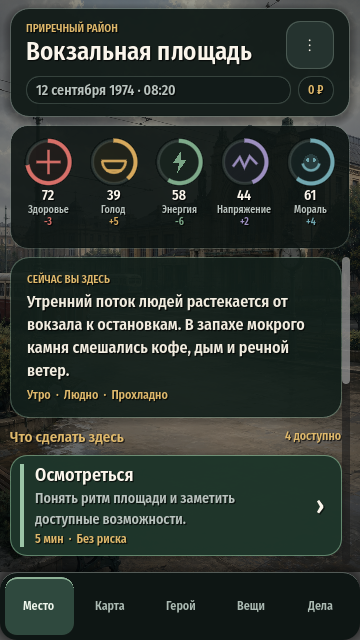
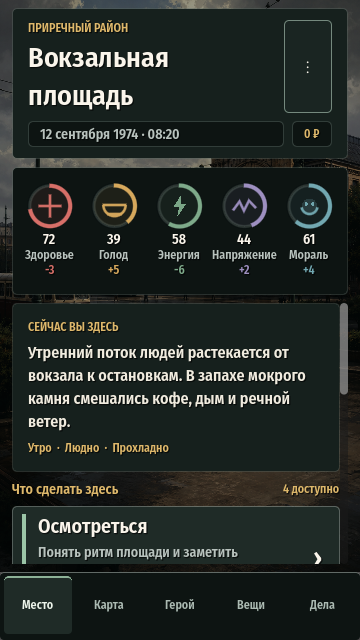
docs(ui): record the UI direction and refresh reference renders
UI_BACKLOG.md is written to be picked up cold: every item carries an address in
the code, the reason it matters and what would make it done. Finished items move
to a dated "done" section rather than disappearing, so the reasoning behind a
decision survives the decision.

The accepted direction is a strict system rather than a metaphor. An object
metaphor — folder, paper, sheet metal — puts a layer between the player and the
information, scales badly onto new screens and ages faster than the content.
Restraint carries the theme better: a cold, precise, unsentimental interface
suits a game about surviving on the street.

Two rules earned their own sections because they were learned rather than
assumed:

- the interface does not explain the game. An unearned control is absent, not
  greyed out with a counter; a disabled state is only honest for something
  already unlocked and momentarily unavailable. The cost of an available
  decision is still always shown — that is a condition of choosing, not a hint
  about hidden machinery.
- one content plane, not a scatter of cards and not bare text. Rules and spacing
  separate as well as boxes with a third of the noise, but only over an opaque
  surface of their own. The probe that proved this made a screen worse first.

Reference renders across m3a–m3d are regenerated. The m3a set had been frozen
since 23 July because three smokes wrote to res://.godot instead of the
[…]

diff --git a/docs/UI_BACKLOG.md b/docs/UI_BACKLOG.md
@@ -1,0 +1,202 @@
+# UI-бэклог «Бомжары»
+
+Статус: рабочий документ. Обновлено 26 июля 2026 года.
+
+Здесь собрано всё известное на сегодня о состоянии интерфейса: что уже сделано, какие принципы приняты и что предстоит. Документ пишется так, чтобы задачу можно было взять «с холодного старта», без контекста обсуждения: у каждого пункта есть адрес в коде, причина и критерий готовности.
+
+Обязательный уровень качества задаёт [UI/UX-стандарт](UI_UX_STANDARD.md); этот документ не заменяет его, а перечисляет разрыв между стандартом и текущей реализацией.
+
+## 1. Как пользоваться
+
+- Пункты в разделе 4 упорядочены по приоритету. P0 — замечания игрока и то, что ломает впечатление прямо сейчас; P1 — каркас, без которого дальнейшие экраны будут накапливать хаос; P2 — полировка.
+- Каждый пункт закрывается только вместе с эталонным рендером и проверкой на `360×640`, `540×960` и при масштабе текста 200%.
+- Готовый пункт переносится в раздел 2 с датой, а не удаляется.
+
+## 2. Сделано
+
+**Иерархия кнопок (25 июля 2026).** До этого `Primary`, `Secondary` и `Quiet` были тремя оттенками одного зелёного с одинаковой геометрией, а `PrimaryButton` и `ActionButtonAccent` ссылались на один и тот же stylebox — главная кнопка подтверждения выглядела как строка списка. Введены три разных веса: заливка с тенью, контур, только текст. Нажатие перераспределяет `content_margin` (14/14 → 16/12) и схлопывает тень, поэтому содержимое проседает, а размер кнопки не меняется и layout не дёргается. Золото `#dfb86c` переведено с focus/hover, которых на телефоне не бывает, на pressed — единственное состояние, которое реально видит палец.
+
+Побочно исправлена ошибка разметки: «Быстрый поиск» занимал primary-слот, хотя заблокирован почти всю сессию, из-за чего выключенная кнопка выглядела весомее живой соседней.
+
+**Быстрый поиск скрыт до освоения (25 июля 2026).** Кнопка показывала «Быстрый поиск 0/6» и объясняла условие открытия — раскрытие механики и счётчиком, и самим присутствием. По правилу 3.4 кнопка удалена из виду целиком: до освоения зоны «Закончить поиск» стоит по центру строки, после освоения появляется вторая кнопка и строка делится пополам.
+
+**Шкалы и тема на них (25 июля 2026).** Введён [tokens.gd](../ui/theme/tokens.gd) с закрытыми шкалами; тема и 21 сцена переведены на них. Радиусы: 10 значений от 5 до 22 → одно, 4, во всех 140 вхождениях. Кегли: 10 значений → 6 ступеней, причём `StatusNameLabel` и `StatusDeltaLabel` стояли на 10 sp при 12 sp минимума по стандарту — шкала починила нарушение доступности. Промежутки: 12 значений → 3. Девять мягких теней убраны, глубина держится тремя непрозрачными ступенями поверхности и волосяной рамкой.
+
+Соответствие закреплено тестом [ui_scale_conformance_test.gd](../tests/ui/ui_scale_conformance_test.gd): обходит 85 файлов и падает на любом значении вне шкалы. Вне шкалы остался только `ui/main.gd` — легаси, удаляется в M3F, исключён явно.
+
+Попутно тесты нашли регрессию: карта города стала уже допустимого из-за двойной набивки — панель давала 16 px, а внутри стоял ещё `MapMargin` на 4 px. Внутренняя убрана.
+
+**Экран создания героя (25 июля 2026).** Закрывает P0.2 и служил пробой направления. Было: три вложенные карточки, описание характеристики на 6–7 строк внутри каждой, длинная прокрутка, полторы характеристики в поле зрения. Стало: одна непрозрачная плоскость содержания, характеристика — строка «название — значение — минус/плюс», описание за касанием названия в [info_sheet](../ui/components/info_sheet.tscn), кнопка подтверждения закреплена внизу вне прокрутки. Все четыре характеристики и счётчик очков помещаются на `360×640` при 100% без прокрутки; при 200% экран прокручивается и не переполняется по ширине.
+
+Рост названия характеристики ограничен множителем 1.3, иначе на 200% строка не вмещает значение и обе кнопки — тот же приём, что уже применён к плотным элементам.
+
+**Шейдер психики съедал всю векторную графику (25 июля 2026).** Корневая причина P0.3, и не только его. `psyche_background.gdshader` писал `COLOR = vec4(colour, source.a)`, то есть **выбрасывал цвет вершины** и читал только текстуру. У `draw_circle`, `draw_line`, `draw_string` текстура — белая заглушка, а цвет передаётся именно вершиной. В результате всё, что рисуется примитивами на поисковой карте, выходило одной плоской заливкой `(208,209,211)`: метки объектов превращались в безликие диски, подписи — в белые плашки с невидимым текстом, герой — в белое пятно.
+
+В комментарии самого шейдера написано, что он предназначен только для `TextureRect` локации, но в `search_world.tscn` его повесили на весь рисующий `Control`. Исправление — сохранять входящий цвет вершины и умножать на него; для фона, у которого вершинный цвет белый, результат математически не изменился.
+
+Диагноз получен экспериментом: временная заливка метки маджентой не дала на рендере ни одного маджентового пикселя, что и указало на шейдер, а не на код рисования. До этого я дважды ошибался, доверяя глазам: пиксельные замеры опровергли и «фотография просвечивает сквозь панель инвентаря», и «метки не изменились».
+
+**Оставшиеся P0 закрыты (25 июля 2026).** P0.1 — карта поиска получила рамку отдельным слоем поверх арта, потому что `PanelContainer` рисует свой stylebox под детьми, а `clip_contents` режет по прямоугольнику. P0.4 — содержимое инвентаря убрано на одну непрозрачную плоскость; замер яркости в области панели упал со 178/217 до 122/120, то есть фотография действительно закрыта. P0.6 — три smoke писали эталонные снимки в `.godot/m3_ui_previews` мимо репозитория и теперь пишут в `docs/qa/m3a`.
+
+## 3. Принятое направление
+
+Решение от 25 июля 2026 года: **строгая система, а не метафора.**
+
+Интерфейс не изображает предмет — ни папку, ни бумагу, ни жесть. Предметная метафора вставляет лишний слой между игроком и информацией, плохо масштабируется на новые экраны и стареет быстрее содержания. Тематичность достигается сдержанностью: холодный, точный, несентиментальный интерфейс уместен игре про выживание сильнее любой декорации.
+
+Опора — практика современного цифрового интерфейса, а не оформление предметов.
+
+### 3.1. Закрытые шкалы
+
+Значение, которого нет в шкале, использовать нельзя. Это главное правило раздела. До введения шкал в проекте жили 11 радиусов и 11 длительностей, подобранных по месту, и именно из-за этого интерфейс выглядел несобранным. Радиусы, кегли и отступы уже приведены к шкале и закреплены тестом; длительности ждут системы движения.
+
+| Шкала | Значения |
+|---|---|
+| Отступы | 4, 8, 12, 16, 24, 32, 48 |
+| Радиус | **4** — единственный, без исключений |
+| Типографика | 12, 14, 16, 20, 28, 40 |
+| Поверхности | фон → поверхность → приподнятое, три ступени светлоты |
+| Длительности | задаются вместе с системой движения (P1.1) |
+
+Радиус 4 выбран сознательно. Ноль на мобильном с однопиксельной рамкой часто выглядит недовёрстанным, особенно в плотных списках. Крупный радиус 16–22, который стоит у нас на больших поверхностях, — интонация дружелюбного консьюмерского приложения и теме противоречит. Малый радиус читается как точность.
+
+### 3.2. Правила формы
+
+**Высота — слоями, не тенями.** В тёмном интерфейсе тень грязнит и не читается. Поверхности разделяются светлотой и волосяной рамкой 1 px на низкой прозрачности.
+
+**Одна плоскость содержания, а не россыпь карточек и не голый текст.** Не каждый смысловой блок обязан быть карточкой: линейка, отступ и вес шрифта разделяют не хуже, а шума дают втрое меньше. Но разделители работают только на собственной непрозрачной подложке. Экран отдаёт содержанию одну сплошную поверхность, внутри неё пользуется линейками, а фотография остаётся рамкой вокруг — не фоном под строками.
+
+Это уточнение получено пробой на экране создания героя: убранные карточки без общей подложки оставили текст лежать прямо на фотографии, и читаемость стала хуже исходной.
+
+**Ограниченный акцент.** Графит — база, золото — только действие, красный — только опасность. Остальное нейтрально. Пока один зелёный работает фоном, поверхностью и акцентом одновременно, поэтому не выделяется ничто: перевод главного действия на золото — отдельное решение, сознательно не смешанное со структурной перестройкой.
+
+**Никакой полупрозрачности под текстом.** Содержательные поверхности плотные. Фотография видна между блоками, а не под строками.
+
+**Контент вперёд, оболочка назад.** Хром не соревнуется с содержанием за внимание.
+
+### 3.3. Правила движения
+
+Длительности и кривые берутся из общего набора. Вход — замедление, выход — ускорение. Переход всегда прерываем и перенацеливаем, никогда не копится в очередь и не задерживает ввод.
+
+**Без пружин.** Overshoot и упругие кривые запрещены: интонация игры их не выдерживает.
+
+Направление перехода кодирует иерархию — вперёд, назад и переключение соседних разделов должны отличаться, иначе игрок теряет ощущение места.
+
+Уменьшение движения — это режим, а не выключатель: переход заменяется мгновенной сменой или кросс-фейдом, но обратная связь остаётся.
+
+Движение никогда не является единственным носителем смысла и дублируется формой, цветом или текстом.
+
+Две поправки, специфичные для игры и записанные в проектных правилах: **движение не намекает на ход игрового времени** и **анимация не подтверждает доменную команду** — визуальный отклик отдаётся сразу, фиксация идёт отдельно и идемпотентно.
+
+### 3.4. Интерфейс не объясняет геймплей
+
+Игрок изучает игру, играя в неё. Интерфейс показывает состояние, а не раскрывает механику.
+
+- Незаработанный элемент **отсутствует на экране**. Не выключенный, не серый, не с подписью «откроется через» — его просто нет. Выключенное состояние тоже сообщает о существовании механики.
+- Появление элемента перестраивает компоновку: пока он один, элемент стоит по центру; когда появляется второй, строка делится между ними.
+- Выключенное состояние остаётся законным только для **уже открытого** элемента, временно недоступного по текущей обстановке.
+- Закрытые варианты ответа по умолчанию скрыты; показать их вместе с причиной можно только настройкой подсказок.
+- Исключение одно — явное обучение.
+
+Практический пример: кнопка быстрого поиска показывала «Быстрый поиск 0/6» и объясняла условие открытия. Механика раскрыта дважды — счётчиком и самим присутствием кнопки. Теперь до освоения зоны кнопки нет, «Закончить поиск» стоит по центру; после освоения кнопка появляется и строка выравнивается по горизонтали.
+
+Отдельно от этого правила стоит **цена уже доступного решения**: длительность, расход сил и риск показываются до подтверждения, потому что это условие осознанного выбора, а не подсказка о скрытом устройстве игры.
+
+### 3.5. Прогрессивное раскрытие
+
+Первый экран показывает решение, а не справку. Подробности убираются за касание.
+
+Это обоснование для выноса описаний характеристик (P0.2): не потому, что «так похоже на документ», а потому, что справочный текст не должен занимать место решения.
+
+## 4. Бэклог
+
+### P0.5 — Сквозная проверка на раскрытие механики
+
+Адрес: [search_read_model.gd](../app/search/search_read_model.gd), [search_approach_row.gd](../ui/components/search_approach_row.gd), [action_row.gd](../ui/components/action_row.gd), [ui_model_factory.gd](../app/ui_model_factory.gd).
+
+Правило 3.4 применено только к кнопке быстрого поиска. Остальной интерфейс не проверен, а места, где он объясняет своё устройство, точно есть: способы взаимодействия перечисляют требования вроде «нужны целые рабочие перчатки», строки действий и предметов показывают `locked_reason`.
+
+Здесь нужна аккуратность, потому что два случая выглядят похоже, но различаются по смыслу:
+
+- **цена доступного решения** — время, силы, риск — показывается всегда, это условие осознанного выбора;
+- **условие открытия недоступного** — раскрытие механики и подлежит удалению.
+
+Отдельный вопрос, требующий решения: считается ли требование уже видимого способа («нужны перчатки») ценой или раскрытием. Сейчас такие причины показываются всегда, хотя проектное правило говорит, что закрытые варианты по умолчанию скрыты и открываются настройкой подсказок.
+
+Готово, когда: каждое место, где интерфейс называет условие, классифицировано как цена или как раскрытие; раскрытия убраны либо переведены под настройку подсказок.
+
+### P1.1 — Системы движения не существует
+
+Адрес: везде. Диагноз по коду: **ноль** токенов движения; **16 файлов** сами создают твины с **11 разными длительностями** (0.09, 0.1, 0.11, 0.16, 0.17, 0.18, 0.2, 0.22, 0.24, 0.34, 0.36); **21 файл** независимо решает, что значит «уменьшить движение».
+
+При этом [стандарт §4](UI_UX_STANDARD.md) уже задаёт интервалы: отклик на нажатие 80–120 мс, обычный переход 180–260 мс, смена экрана не более 320 мс, изменение показателя 240–450 мс. А пункт 8 плана M3A прямо требует «единый Theme с токенами цвета, типографики, размеров, отступов, радиусов и motion». Токенов движения в теме нет.
+
+Предлагается `ui/theme/motion.gd`: именованные длительности и кривые, фабрика твинов, применяющая политику уменьшенного движения в одном месте, хелпер стаггера и готовые переходы (кросс-фейд, сдвиг по общей оси, масштабирование).
+
+Готово, когда: ни один экран и компонент не содержит числовой длительности; режим уменьшенного движения переключается в одном месте; тест проверяет, что все токены укладываются в интервалы стандарта.
+
+### P1.2 — Все переходы между экранами одинаковы
+
+Адрес: [app_shell.gd](../app/app_shell.gd), `show_screen`.
+
+Каждый экран появляется одинаково: прозрачность плюс сдвиг на 10px по X за 0.2 с. Переход вперёд, возврат назад, переключение вкладки и открытие занятия визуально неразличимы, поэтому интерфейс не сообщает, где игрок оказался.
+
+Готово, когда: `UiCoordinator` передаёт намерение перехода (вперёд, назад, замена), а оболочка выбирает соответствующее движение; возврат читается как возврат.
+
+### P1.3 — Модальные листы дублируют друг друга
+
+Адрес: [search_interaction_sheet.gd](../ui/components/search_interaction_sheet.gd), [search_capacity_conflict_sheet.gd](../ui/components/search_capacity_conflict_sheet.gd), [inventory_action_sheet.gd](../ui/components/inventory_action_sheet.gd).
+
+У первых двух метод `_animate_open` совпадает дословно. Открытие, закрытие, backdrop, обработка Back и `is_open()` написаны в каждом листе заново.
+
+Готово, когда: поведение листа живёт в одном месте, а конкретный лист описывает только своё содержимое.
+
+### P1.4 — Состояния элементов не системны
+
+Адрес: тема плюс отдельные компоненты.
+
+`idle`, `hover`, `pressed`, `focused`, `disabled` и `loading` реализуются точечно и не для всех элементов. Отдельная проблема — отсутствие состояния ожидания: во время команды экран не сообщает, что занят, хотя команда блокируется на четверть секунды.
+
+Готово, когда: состояния задаются темой, а не индивидуальными override; у каждого нажимаемого элемента есть отчётливое состояние нажатия.
+
+### P1.5 — Тактильного отклика и звука нет
+
+Адрес: отсутствует.
+
+Стандарт требует «ненавязчивые звук и виброотклик, которые можно отключить». В коде нет ни одного обращения к вибрации или аудио.
+
+Готово, когда: подтверждение значимого решения, отказ, пересечение порога риска и завершение мини-игры дают короткий отклик; настройка выключает его; системная настройка устройства уважается. Звуковые ассеты не выдумываются — достаточно точек подключения.
+
+### P2.1 — Уведомление перекрывает содержимое
+
+Адрес: [toast_overlay.gd](../ui/components/toast_overlay.gd).
+
+Уведомление о находке живёт дольше, чем экран, на котором возникло: после перехода к встрече оно накрывает вариант ответа, а на экране поиска — метаданные лотка.
+
+Готово, когда: уведомление не перекрывает интерактивные элементы либо снимается при смене экрана.
+
+### P2.2 — Кнопка подробностей находки никуда не ведёт
+
+Адрес: [search_loot_tray.gd](../ui/components/search_loot_tray.gd).
+
+Сигнал `details_requested` не подключён ни к чему. Кнопка временно скрыта, чтобы не занимать ширину на узком экране и не изображать работающий элемент.
+
+Готово, когда: либо появляется экран подробностей находки, либо кнопка удаляется из сцены вместе с сигналом.
+
+### P2.3 — Пустые, загрузочные и ошибочные состояния не спроектированы
+
+Адрес: экраны инвентаря, карты, поиска.
+
+Готово, когда: у каждого списка есть осмысленное пустое состояние с подсказкой о следующем шаге, а не просто отсутствие строк.
+
+## 5. Проверка
+
+Любой пункт закрывается одним и тем же набором:
+
+```bash
+godot --headless --path . --script res://tests/ui/app_shell_smoke.gd
+```
+
+Плюс профильный smoke затронутого экрана, эталонные рендеры на `360×640` и `540×960`, проверка при масштабе текста 200% и осознанный просмотр результата глазами. Headless-прогон подтверждает, что ничего не сломалось, но не подтверждает, что стало красиво.
+
+Проверка на физическом Android-устройстве остаётся частью открытого [G0](G0_ANDROID_BASELINE.md) и не заменяется рендером в `SubViewport`.

diff --git a/README.md b/README.md
@@ -19,6 +19,7 @@
 - [Живой продуктовый roadmap](docs/ROADMAP.md)
 - [Исполнимый план разработки](docs/DEVELOPMENT_PLAN.md)
 - [Обязательный UI/UX-стандарт](docs/UI_UX_STANDARD.md)
+- [UI-бэклог: что известно и что предстоит](docs/UI_BACKLOG.md)
 - [Поисковая мини-игра и инвентарь](docs/SEARCH_AND_INVENTORY.md)
 - [Инструкции для ИИ-агентов](AGENTS.md)
 - [Реализация системного ядра M1](docs/M1_CORE.md)
